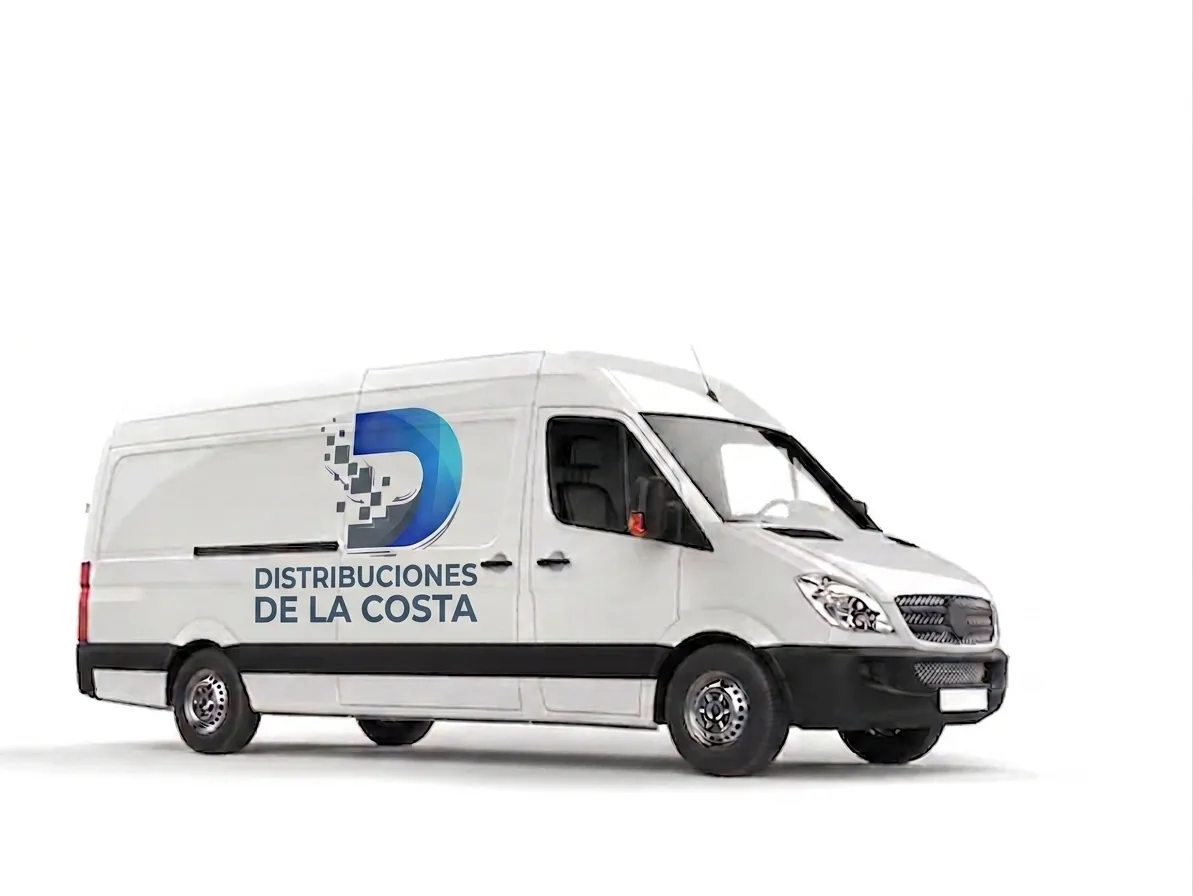
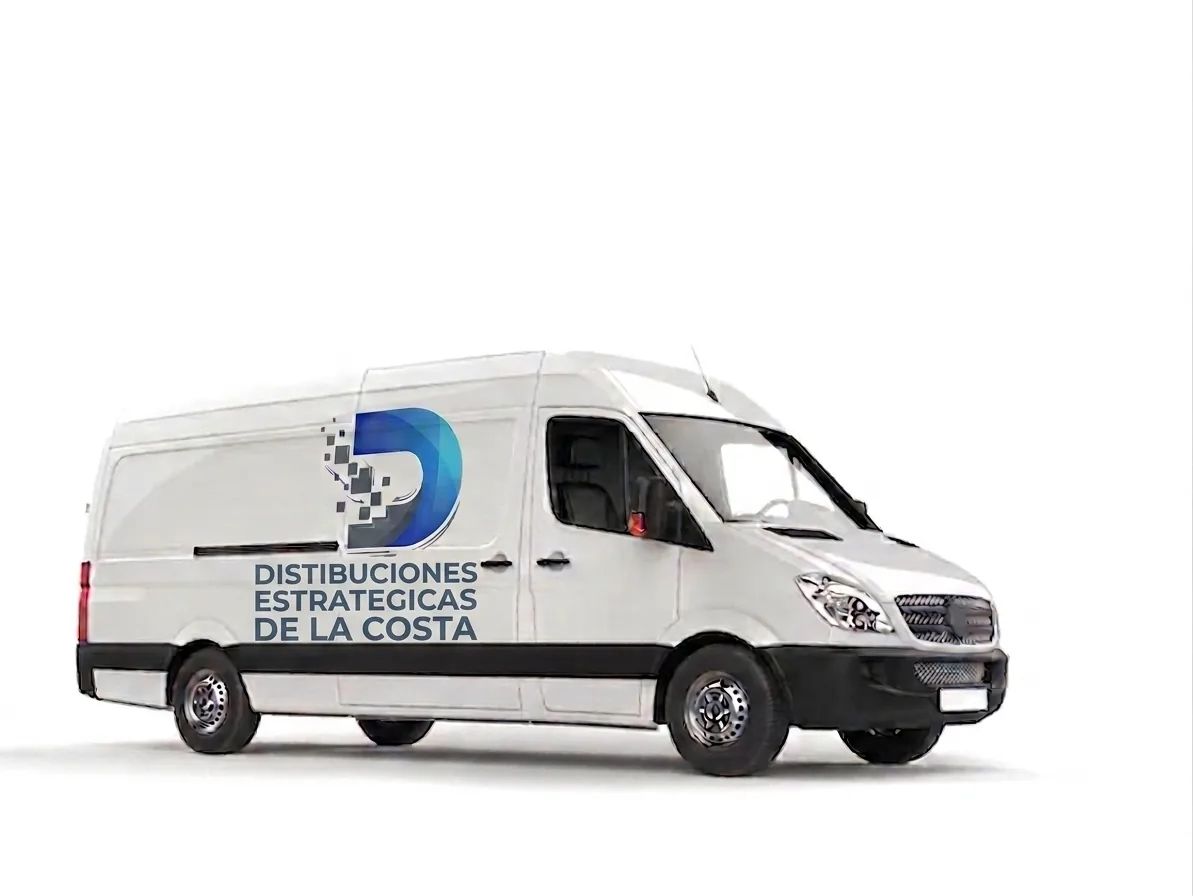
Nueva foto de furgonetas en el bloque de cierre del inicio
VANS.png (880 KB, con canal alfa) se compone sobre blanco -que es el fondo de
la propia foto- y se convierte a WebP: 34 KB.

Esta foto se compone distinto de la anterior: los vehiculos ocupan del 10% al
80% del ancho, centrados, y no un solo lado. Con el reparto que habia, el
velo oscuro los dejaba en 50/255, casi negros.

Ahora el velo va fuerte solo en el tercio derecho -donde la foto esta vacia y
donde se apoya el texto- y corta deprisa hacia el centro. El cuadro de texto
se estrecha de 560 a 440px para que quepa en esa franja.

Medido sobre la imagen real: las furgonetas suben de 50 a 88 sobre 255 y el
texto blanco queda en 17:1 de contraste, muy por encima del 4,5 exigido.

Changed region(s): [[0.2171, 0.625, 0.4032, 0.7188]]

diff --git a/css/site.css b/css/site.css
@@ -107,8 +107,8 @@ section{padding:90px 0}
    justo donde la foto tiene la furgoneta: la tapaba entera. Se invierte el
    degradado y el texto se pasa a la derecha, de modo que el vehiculo queda
    en la zona clara y las letras sobre la oscura. */
-.cta-bg::after{content:"";position:absolute;inset:0;background:linear-gradient(250deg,rgba(7,11,22,.92),rgba(10,20,50,.72) 58%,rgba(14,165,233,.26))}
-.cta-in{position:relative;padding:70px 56px;max-width:560px;margin-left:auto}
+.cta-bg::after{content:"";position:absolute;inset:0;background:linear-gradient(255deg,rgba(7,11,22,.96) 0%,rgba(9,15,32,.92) 36%,rgba(10,20,50,.20) 52%,rgba(14,165,233,.06) 100%)}
+.cta-in{position:relative;padding:70px 56px;max-width:440px;margin-left:auto}
 .cta h2{font-size:clamp(28px,3.6vw,44px);margin-bottom:12px;color:#fff}
 .cta p{color:#cdd8ee;font-size:18px;margin-bottom:26px}
 footer{border-top:1px solid var(--line);margin-top:90px;padding:56px 0 28px;background:var(--bg2)}

diff --git a/index.html b/index.html
@@ -64,7 +64,7 @@
   <link href="https://fonts.googleapis.com/css2?family=Plus+Jakarta+Sans:wght@400;500;600;700;800&display=swap" rel="stylesheet">
   <link rel="stylesheet" href="https://fonts.googleapis.com/icon?family=Material+Icons" media="print" onload="this.media='all'">
   <noscript><link rel="stylesheet" href="https://fonts.googleapis.com/icon?family=Material+Icons"></noscript>
-  <link rel="stylesheet" href="css/site.css?v=fase9f">
+  <link rel="stylesheet" href="css/site.css?v=fase9g">
   <link rel="stylesheet" href="css/nav.css?v=fase9e">
 </head>
 <body>

diff --git a/contacto.html b/contacto.html
@@ -26,7 +26,7 @@
   <link rel="stylesheet" href="https://fonts.googleapis.com/icon?family=Material+Icons" media="print" onload="this.media='all'">
   <noscript><link rel="stylesheet" href="https://fonts.googleapis.com/icon?family=Material+Icons"></noscript>
   <link rel="stylesheet" href="css/animations.css?v=fase9e">
-  <link rel="stylesheet" href="css/site.css?v=fase9f">
+  <link rel="stylesheet" href="css/site.css?v=fase9g">
   <link rel="stylesheet" href="css/nav.css?v=fase9e">
   <script type="application/ld+json">
   {

diff --git a/empresas.html b/empresas.html
@@ -26,7 +26,7 @@
   <link rel="stylesheet" href="https://fonts.googleapis.com/icon?family=Material+Icons" media="print" onload="this.media='all'">
   <noscript><link rel="stylesheet" href="https://fonts.googleapis.com/icon?family=Material+Icons"></noscript>
   <link rel="stylesheet" href="css/animations.css?v=fase9e">
-  <link rel="stylesheet" href="css/site.css?v=fase9f">
+  <link rel="stylesheet" href="css/site.css?v=fase9g">
   <link rel="stylesheet" href="css/nav.css?v=fase9e">
   <script type="application/ld+json">
   {
